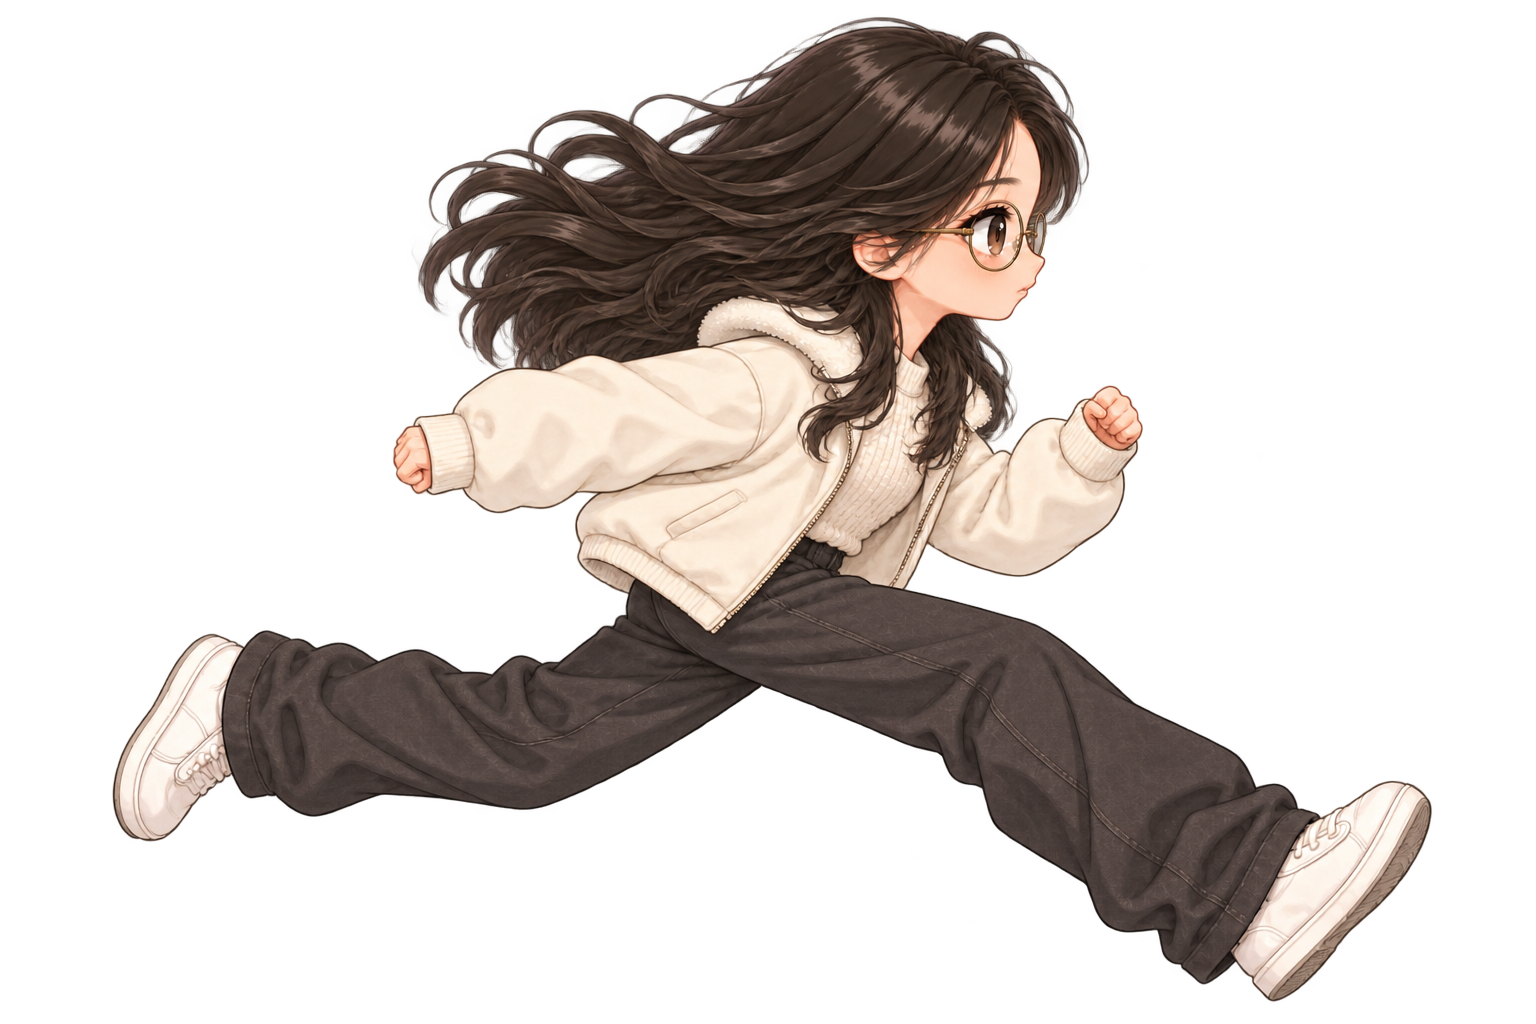
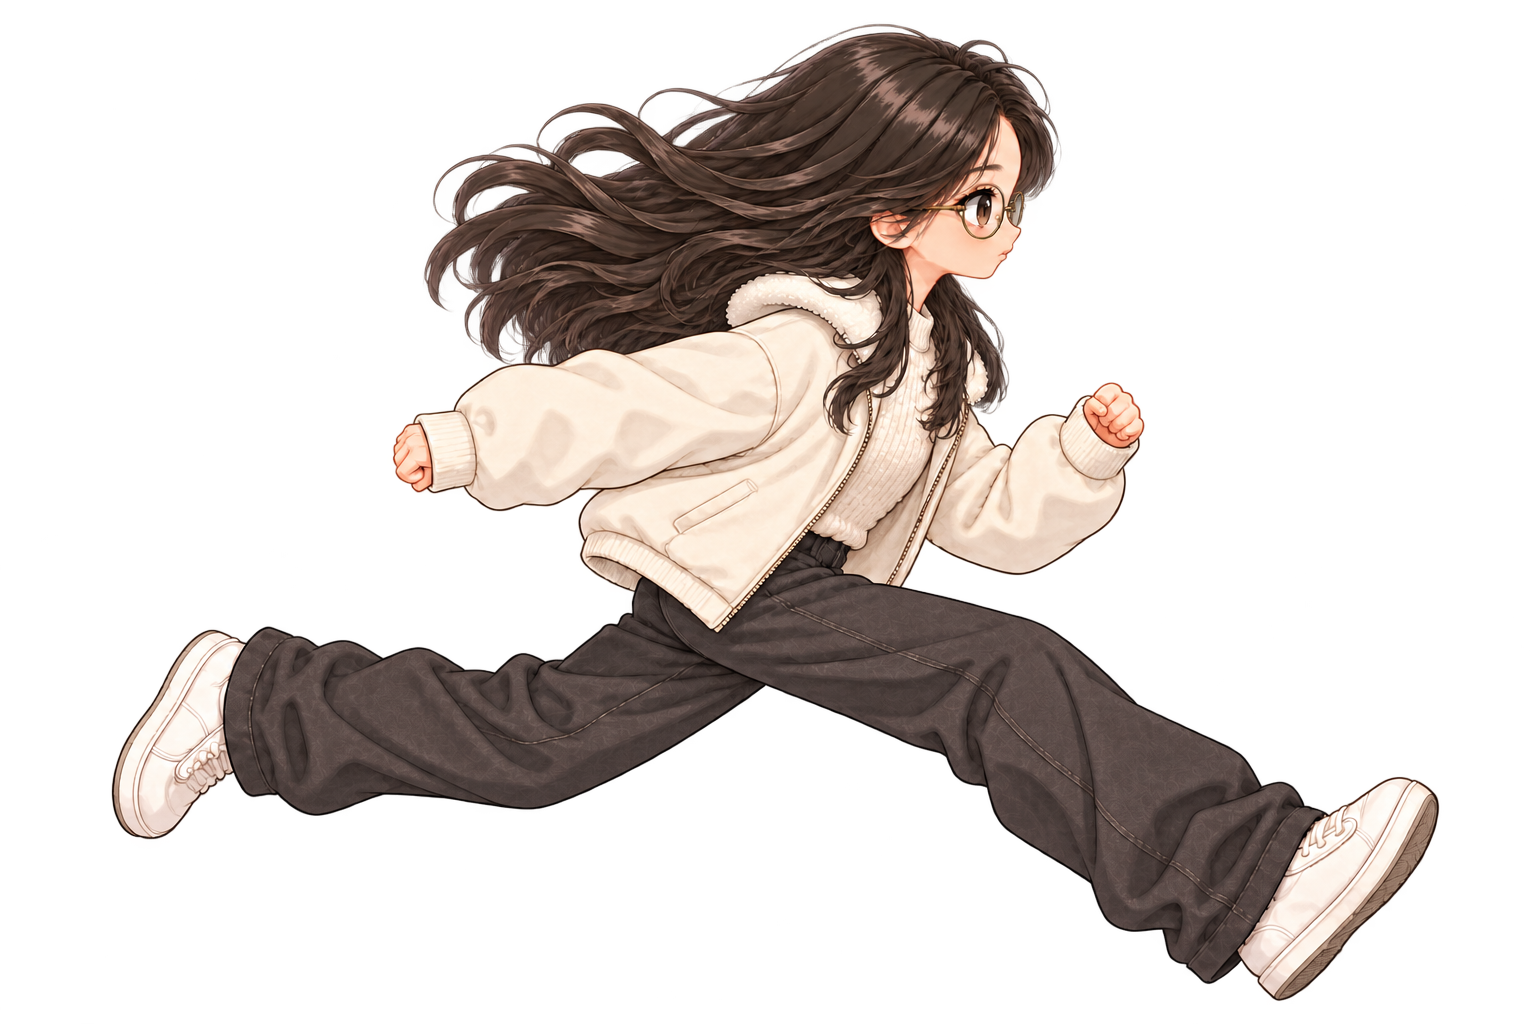
Match natural run head proportions across keyframes

diff --git a/design/animation/head-consistency.md b/design/animation/head-consistency.md
@@ -1,0 +1,20 @@
+# 原版头部尺寸校正
+
+原始整帧1、8头部偏大，7略小。使用内置 imagegen 定向编辑完整图片，以第3帧为头部尺寸参照；保留身体姿势和固定整体缩放，更新眼睛对齐坐标。
+
+最终图片：assets/whole-run/natural/01.png、07.png、08.png。
+
+八帧等比例、眼睛对齐的检查图：natural-head-size-corrected.png。检查时以脸部、眼镜和下颌为准，不把飘动的发梢当作头部外框。
+
+## 第1帧提示词
+
+Precise localized animation consistency edit. Image1 is the TARGET whole running sprite, image2 supplies ONLY the correct HEAD SIZE. Preserve image1's entire running pose, both arms/hands, torso/jacket, hips, legs and shoes, size and position on the exact 1536x1024 transparent canvas. Do NOT rescale the whole character or move/repaint the body. Change ONLY the head/skull/face/glasses size and seamlessly repaint the neck/hair junction. Match the skull-to-chin height of image2 (about 250 pixels), same adult-stylized face, same glasses, neutral dark hair and image1 hair flow. Neck stays naturally inside existing collar, no pasted edge or gap. Keep the exact body and clothing colors. Maintain eye center approximately at the specified target so animation alignment is stable. Keep all original transparency. One complete figure, no labels. REDUCE oversized head by about 16%, skull/face/glasses together. Keep neck base fixed, eye center approximately (981,248). Do not merely alter hair volume.
+
+## 第7帧提示词
+
+Precise localized animation consistency edit. Image1 is the TARGET whole running sprite, image2 supplies ONLY the correct HEAD SIZE. Preserve image1's entire running pose, both arms/hands, torso/jacket, hips, legs and shoes, size and position on the exact 1536x1024 transparent canvas. Do NOT rescale the whole character or move/repaint the body. Change ONLY the head/skull/face/glasses size and seamlessly repaint the neck/hair junction. Match the skull-to-chin height of image2 (about 250 pixels), same adult-stylized face, same glasses, neutral dark hair and image1 hair flow. Neck stays naturally inside existing collar, no pasted edge or gap. Keep the exact body and clothing colors. Maintain eye center approximately at the specified target so animation alignment is stable. Keep all original transparency. One complete figure, no labels. ENLARGE slightly undersized head by about 10%, skull/face/glasses together, eye center approximately (991,173). Keep all head/hair inside top edge with clear margin, do not enlarge body.
+
+## 第8帧提示词
+
+Precise localized animation consistency edit. Image1 is the TARGET whole running sprite, image2 supplies ONLY the correct HEAD SIZE. Preserve image1's entire running pose, both arms/hands, torso/jacket, hips, legs and shoes, size and position on the exact 1536x1024 transparent canvas. Do NOT rescale the whole character or move/repaint the body. Change ONLY the head/skull/face/glasses size and seamlessly repaint the neck/hair junction. Match the skull-to-chin height of image2 (about 250 pixels), same adult-stylized face, same glasses, neutral dark hair and image1 hair flow. Neck stays naturally inside existing collar, no pasted edge or gap. Keep the exact body and clothing colors. Maintain eye center approximately at the specified target so animation alignment is stable. Keep all original transparency. One complete figure, no labels. REDUCE oversized head by about 14%, skull/face/glasses together. Keep neck base fixed, eye center approximately (1077,238). Do not merely alter hair volume.
+
